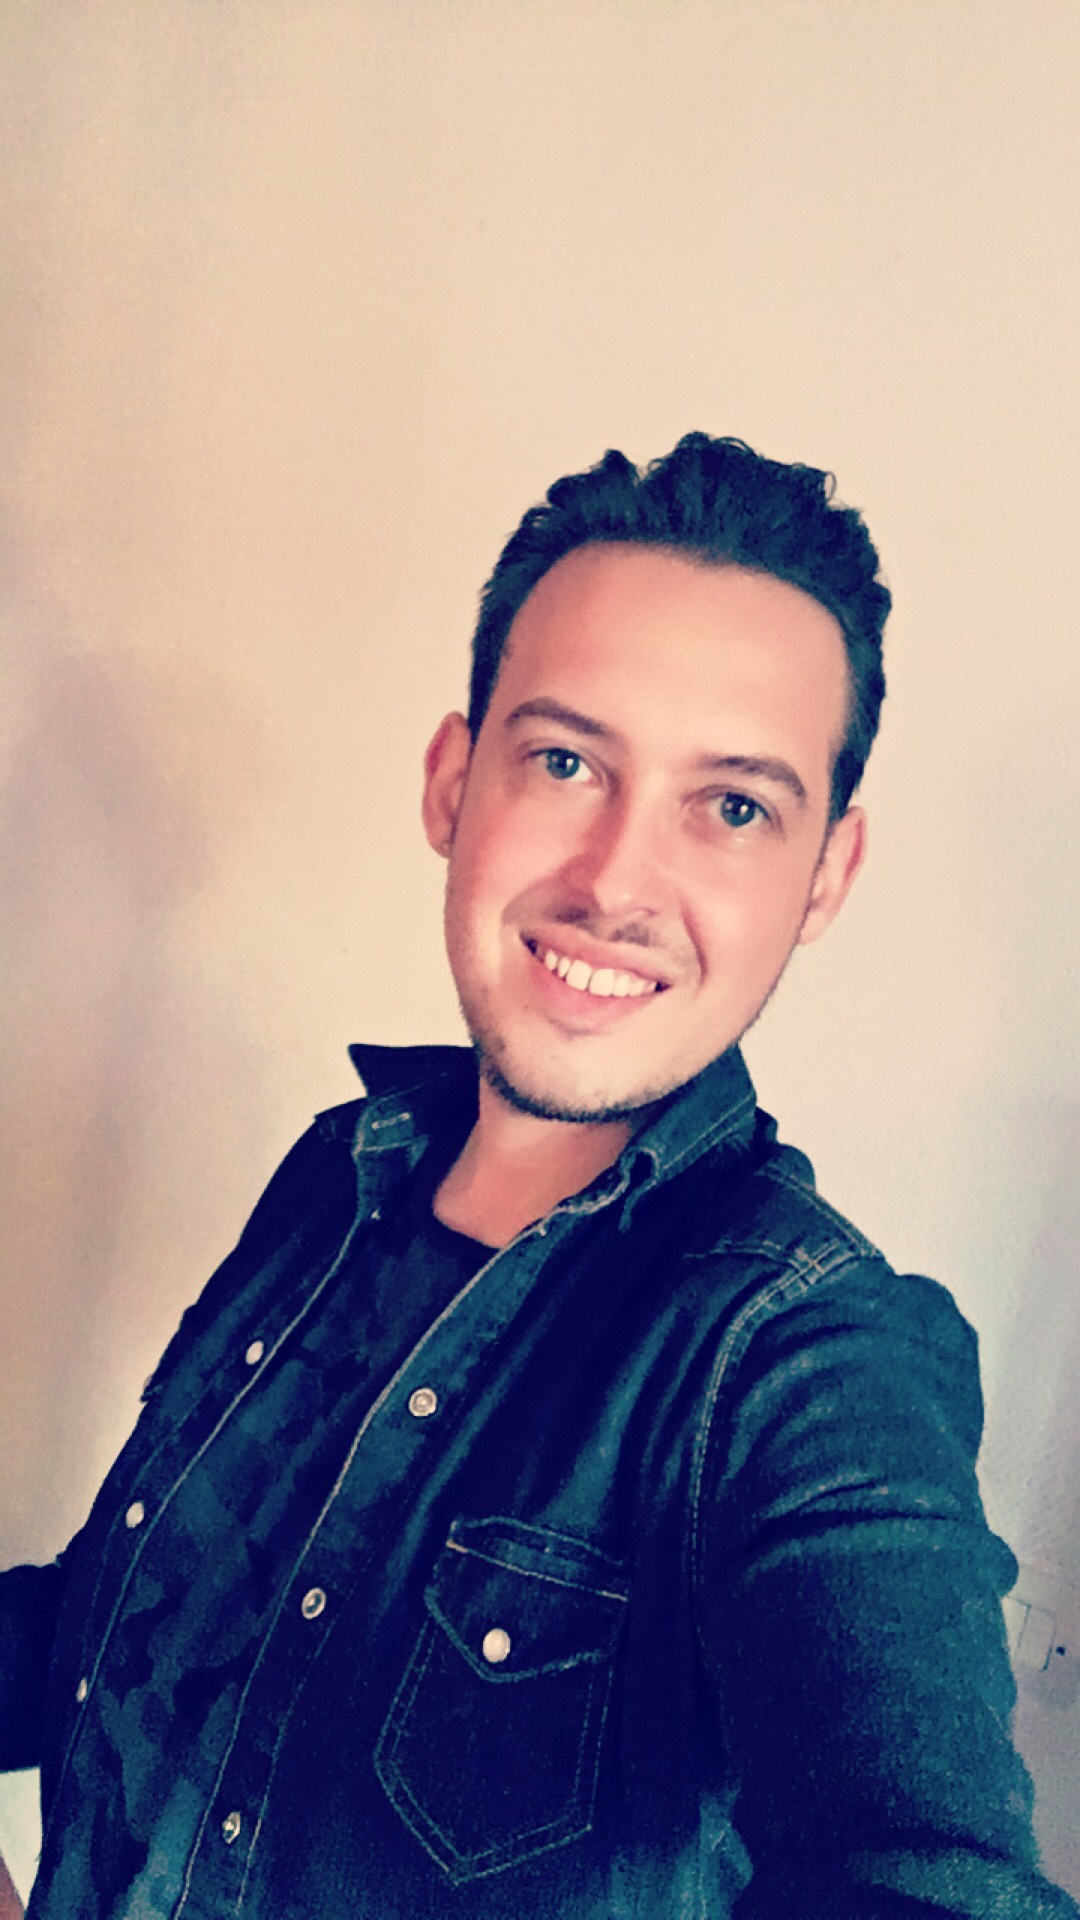
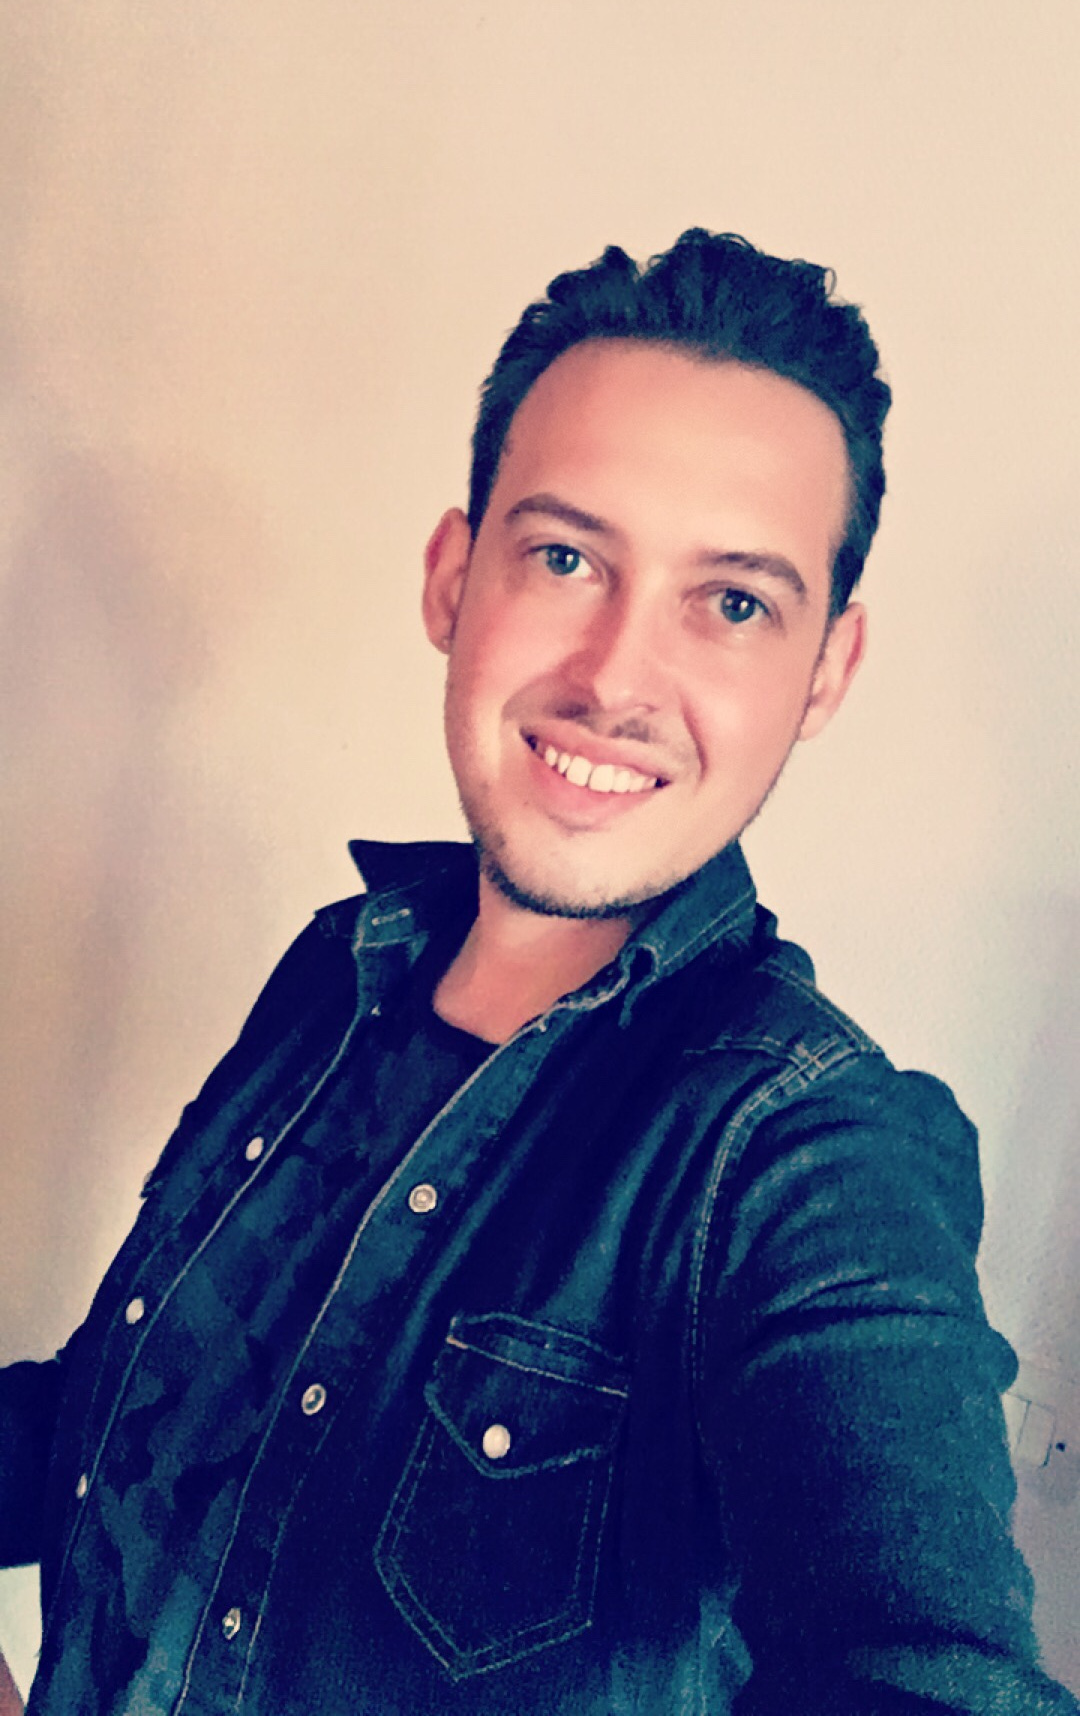
ajout de l'image

diff --git a/js/apps.js b/js/apps.js
@@ -1,14 +1,64 @@
-//Nous voulons un slide de deux images.
+// rassembler les images dans un objets
 
-//give the active image, the class "slide_active":
-function disparission (){
-  .play(animation);
+
+function Carousel(containerID) {
+	this.container = document.getElementById(containerID) || document.body;
+	this.slides = this.container.querySelectorAll('.carousel');
+	this.total = this.slides.length - 1;
+	this.current = 0;
+
+	// start on slide 1
+	this.slide(this.current);
 }
+// NEXT
+Carousel.prototype.next = function (interval) {
+	(this.current === this.total) ? this.current = 0 : this.current += 1;
 
-//change images with the time that pass
-  //create a timer
-  //create an animation
-    //opacity change
+	this.stop();
+	this.slide(this.current);
 
+	if(typeof interval === 'number' && (interval % 1) === 0) {
+		var context = this;
+		this.run = setTimeout(function() {
+			context.next(interval);
+		}, interval);
+	}
+};
+// PREVIOUS
+Carousel.prototype.prev = function (interval) {
+	(this.current === 0) ? this.current = this.total : this.current -= 1;
 
-//créer un sliders
+	this.stop();
+	this.slide(this.current);
+
+	if(typeof interval === 'number' && (interval % 1) === 0) {
+		var context = this;
+		this.run = setTimeout(function() {
+			context.prev(interval);
+		}, interval);
+	}
+};
+// STOP PLAYING
+Carousel.prototype.stop = function () {
+	clearTimeout(this.run);
+};
+// SELECT SLIDE
+Carousel.prototype.slide = function (index) {
+	if (index >= 0 && index <= this.total) {
+		this.stop();
+		for (var s = 0; s <= this.total; s++) {
+			if (s === index) {
+				this.slides[s].style.display = "inline-block";
+			} else {
+				this.slides[s].style.display = 'none';
+			}
+		}
+	} else {
+		alert("Index " + index + " doesn't exist. Available : 0 - " + this.total);
+	}
+};
+// parcourir l'objets
+
+// donner un délais
+
+// afficher l'images parcourus

diff --git a/index.html b/index.html
@@ -73,21 +73,8 @@
 
 
     </header>
+           <img src="img/SIMPLON_first.jpg" class=image_introduction alt="">
 
-
-
-    <figure class="carroussel">
-
-        <ul class="slides">
-          <li>
-            <img class="image_slide" src="img/SIMPLON_first.jpg">
-          </li>
-          <li>
-            <img class="image_slide"src="img/SIMPLON_second.jpg"> 
-          </li>
-        </ul>
-
-    </figure>
 
 <!--=====================================
 ==================MAIN===================
@@ -97,9 +84,7 @@
 
     <main id="background_simplon">
 
-        <figure>
-            <img src="" alt="équipe de Simplon-ROUBAIX">
-        </figure>
+
 <!-- ===========vidéo d'introduction section========== -->
         <section class="video_introduction">
 
@@ -129,7 +114,6 @@
                </p>
 
             </article>
-
 
 
 <!-- ligne de séparation -->
@@ -180,8 +164,6 @@
 
 
                 </section>
-
-
 
 
                 <article class="inscriptions">
@@ -315,6 +297,19 @@
         <script src="js/plugins.js"></script>
         <script src="js/main.js"></script>
         <script src="js/app.js"></script>
+
+
+         <script>
+
+            var images_sliders = new Carousel();
+
+         </script>
+
+
+        <script type="text/javascript" src="//code.jquery.com/jquery-1.11.0.min.js"></script>
+         <script type="text/javascript" src="//code.jquery.com/jquery-migrate-1.2.1.min.js"></script>
+         <script src="https://code.jquery.com/jquery-2.2.0.min.js" type="text/javascript"></script>
+
 
         <!-- Google Analytics: change UA-XXXXX-X to be your site's ID. -->
         <script>

diff --git a/css/style.css b/css/style.css
@@ -1,4 +1,6 @@
 
+
+
 /*==========================================================
                        GENERAL
 ==========================================================*/
@@ -66,10 +68,10 @@ a {
 
 #background_simplon{
   width:100%;
-  margin:auto auto 150px;
-  padding:150px 0 0;
+  margin:0 auto 150px;
   background-image: url(../img/background/Untitled.png);
   background-position: center;
+  padding-top: 110px;
 }
 
 
@@ -106,42 +108,11 @@ a {
   display:block;
 }
 
-.slider{
-  width:100%;
-}
-
-.image_1_slide{
-  opacity: 0;
-}
-
-.image_2_slide{
-  opacity: 0;
-}
-
-.slide_actif{
-  opacity: 1;
-}
 
 
-/*CARROUSSEL LE RETOUR DE LA VEANGEANCE*/
-
-.carroussel{
-  background-color: red;
-  position:relative;
-  width:100%;
-  height:750px;
-  margin:0 auto;
-}
-
-.image_slide{
-  position:absolute;
-  width:100%;
-  top:0;
-  left:0;
-}
 
 /*******************************
-NAVBAR
+            NAVBAR
 *******************************/
 
 .navbar{
@@ -188,6 +159,18 @@ header li{
           color: #ff167a;
         }
 }
+
+
+
+.image_introduction{
+  width:100%;
+  height:auto;
+  margin-top: 90px;
+  margin-bottom: -150px;
+}
+
+
+
 
 /*==========================================================
                        FOOTER
@@ -467,10 +450,15 @@ video {
   margin-bottom: 20px;
 }
 
+.profil_contact img{
+  border-radius: 800px;
+}
+
+
 .formulaire_contact{
   padding:20px;
   width:90%;
-  margin: auto;
+  margin:0 auto;
   margin-bottom: 20px;
 }
 

diff --git a/equipe.html b/equipe.html
@@ -97,6 +97,19 @@
     <main id="background_simplon">
 
 
+        <h3>L'EQUIPES</h3>
+
+
+        <section class="personnels">
+
+            <h4>NON SPECIFIC PERSON</h4>
+            <p>LA personne non-spécific est un menbre éssentiel de notre organisation: <br> C'est un joueur d'Overwatch qualifié, un pro du Reaper, un maesto de Reinhardt et surtout un fucking badass quand il s'agit de se battre contre le plus stupide des individues.</p>
+
+        </section>
+
+
+
+
 
 
 

diff --git a/contact.html b/contact.html
@@ -96,7 +96,7 @@
 
             <article class="profil_contact">
                 <figure>
-                    <img src="img/portrait/portrait.png" width="300px" alt="portrait de Mazingue">
+                    <img src="img/portrait/Mathieu.jpg" width="300px" alt="portrait de Mazingue">
                 </figure>
 
                 <p>

diff --git a/cursus.html b/cursus.html
@@ -101,7 +101,7 @@
 
 
 
-
+        <h3>CURSUS</h3>
 
                 <!-- ligne de séparation -->
         <div class="ligne_de_separation">
